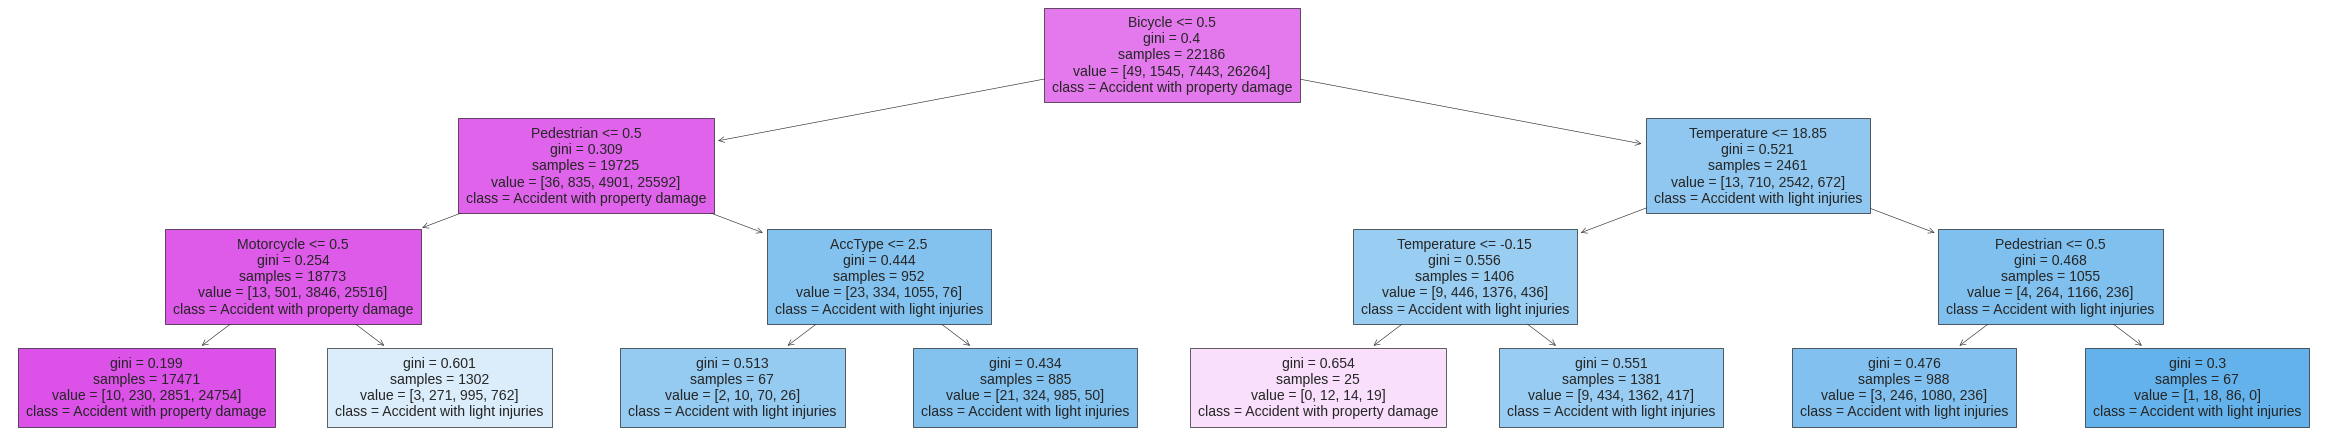
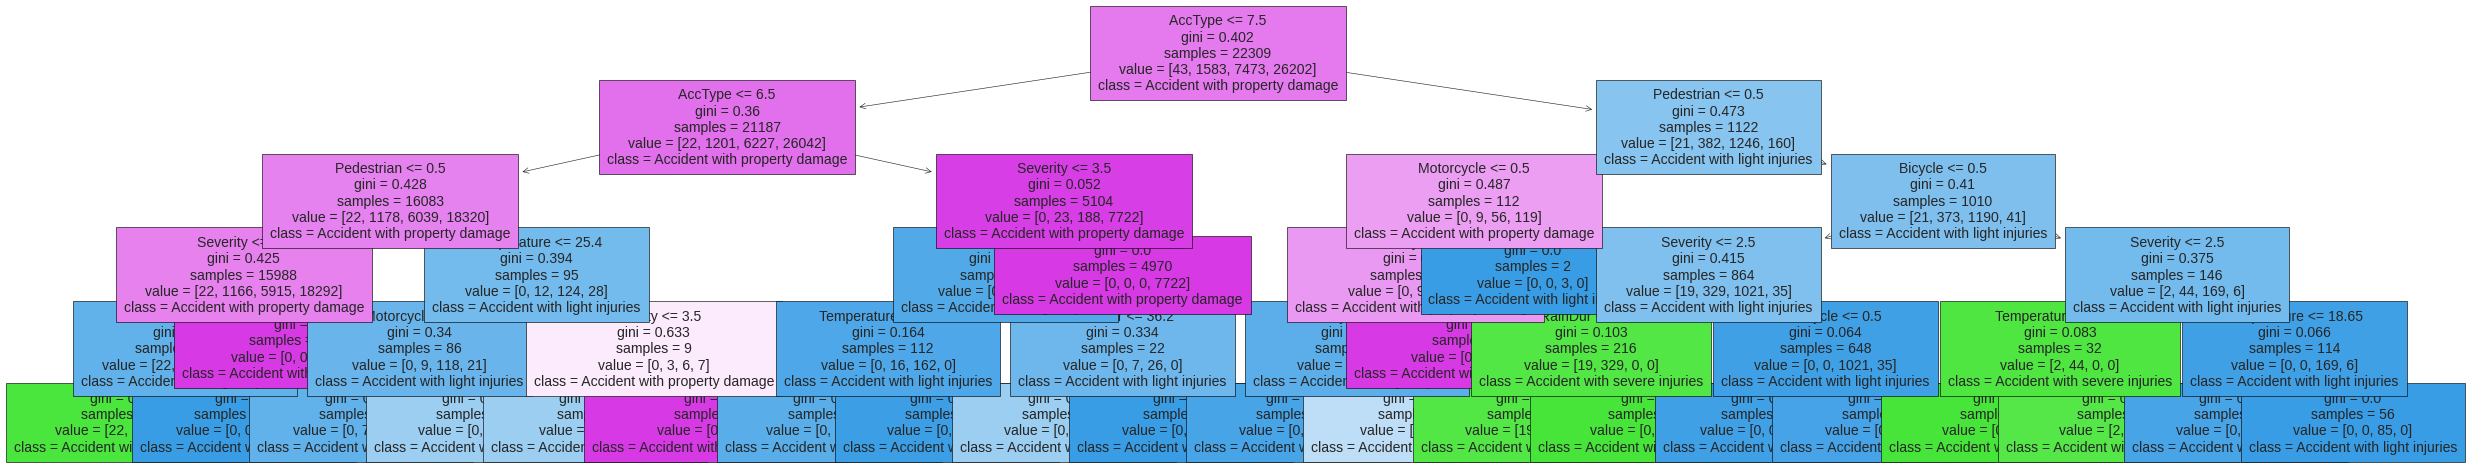
Added save_tree() function to helpers. Beautified classification.py.

diff --git a/src/classification.py b/src/classification.py
@@ -2,63 +2,55 @@
 """
 Created on 13 May 2021
 @author: dtm
-according to this tutorial: https://www.tensorflow.org/tutorials/structured_data/feature_columns
+according to this tutorial: https://www.tensorflow.org/tutorials/structured_data/feature_columns and session_06b
 """
 
-import logging, os
-import matplotlib.pyplot as plt
+import logging
+import os
 logging.disable(logging.WARNING)
-os.environ["TF_CPP_MIN_LOG_LEVEL"] = "2"
+os.environ["TF_CPP_MIN_LOG_LEVEL"] = "2"  # Silence tensorflow a bit
 import tensorflow as tf
 from tensorflow import feature_column
 from tensorflow.keras import layers, optimizers
 from sklearn.model_selection import train_test_split
 from datasets import data_all as dataframe
-from helpers import df_to_dataset
+from helpers import df_to_dataset, prepare_data_classification, save_tree
 
 import pandas as pd
+
 from sklearn.tree import DecisionTreeClassifier
 from sklearn.ensemble import RandomForestClassifier
 from sklearn.metrics import accuracy_score
 from sklearn.metrics import confusion_matrix
-from sklearn.tree import plot_tree
 
 
 # set some pandas option to use the whole terminal width to display results
 pd.options.display.max_columns = 10
 pd.set_option('display.width', 200)
 
-dataframe = dataframe.drop(columns=['Date', 'SumBikerNumber',
-                                    'SumBikerNumber', 'SumCars', 'SumPedestrianNumber'])
-# Shorten feature names just for convenient output format
-new_cols = {"AccidentSeverityCategory": "Severity", "AccidentType": "AccType", "AvgTemperature": "Temperature",
-            "AvgRainDur": "RainDur",
-            "AccidentInvolvingPedestrian": "Pedestrian", "AccidentInvolvingBicycle": "Bicycle",
-            "AccidentInvolvingMotorcycle": "Motorcycle", "AccidentLocation_CHLV95_E": "LocationE",
-            "AccidentLocation_CHLV95_N": "LocationN"}
-dataframe.rename(columns=new_cols, inplace=True)
-dataframe.loc[dataframe['RoadType'] == 9, 'RoadType'] = 5
+dataframe = prepare_data_classification(dataframe)
 
-sequential_model = False
-decision_tree = False
+sequential_model = True
+decision_tree = True
 random_forest = True
 
-
 if sequential_model:
-    print('starting sequential model classification')
+    print('----------starting sequential model classification----------')
     # all features: ['AccType', 'Severity', 'Pedestrian', 'Bicycle', 'Motorcycle', 'RoadType', 'LocationE', 'LocationN', 'Temperature', 'RainDur']
-    features = ['AccType', 'Pedestrian', 'Bicycle', 'Motorcycle', 'RoadType']
-    target = 'Severity'
+    features = ['AccType', 'Severity', 'Pedestrian', 'Bicycle']
+    target = 'RoadType'
+    print('Features: ', features)
+    print('Target: ', target)
     if target == 'Severity':
         dataframe['Severity'] = dataframe['Severity'] - 1
-    df = dataframe[features+[target]].copy()
+    df = dataframe[features + [target]].copy()
     df.rename(columns={target: 'target'}, inplace=True)
 
     # Split into train test and validation
     train, test = train_test_split(df, test_size=0.2)
     train, val = train_test_split(train, test_size=0.2)
 
-    batch_size = 128
+    batch_size = 1024
     train_ds = df_to_dataset(train, batch_size=batch_size)
     val_ds = df_to_dataset(val, shuffle=False, batch_size=batch_size)
     test_ds = df_to_dataset(test, shuffle=False, batch_size=batch_size)
@@ -68,7 +60,6 @@ if sequential_model:
     for header in features:
         feature_columns.append(feature_column.numeric_column(header))
 
-    print(feature_columns)
     # Use DenseFeatures layer as an input to the Keras model
     feature_layer = tf.keras.layers.DenseFeatures(feature_columns)
 
@@ -78,17 +69,16 @@ if sequential_model:
     #     print('A batch of RoadType:', feature_batch['RoadType'])
     #     print('A batch of Bicycle:', feature_batch['Bicycle'])
     #     print('A batch of Motorcycle:', feature_batch['Motorcycle'])
-    #     print('A batch of Temperature:', feature_batch['Temperature'])
     #     print('A batch of targets:', label_batch)
 
+    num_units = dataframe[target].nunique()
+    print(num_units)
     model = tf.keras.Sequential([
         feature_layer,
         layers.Dense(128, activation='relu'),
-        layers.Dense(512, activation='relu'),
-        layers.Dense(256, activation='relu'),
         layers.Dense(128, activation='relu'),
         layers.Dropout(.3),
-        layers.Dense(4, activation='softmax')
+        layers.Dense(num_units, activation='softmax')
     ])
 
     optimizer = optimizers.Adam(learning_rate=0.01)  # Defines the learning rate
@@ -98,97 +88,82 @@ if sequential_model:
     callbacks = [tf.keras.callbacks.EarlyStopping(
         monitor='val_loss', patience=3)]
 
-    history = model.fit(train_ds, validation_data=val_ds, epochs=60, callbacks=None)
+    history = model.fit(train_ds, validation_data=val_ds, epochs=30, callbacks=None)
     loss, accuracy = model.evaluate(test_ds)
-    # print("Accuracy", accuracy)
-    # print(dataframe.info())
-    # pred = model.predict_classes(test_ds)
-    # true = dataframe['target'].values
-    # print(pred)
-    # print(true)
-
 
 if decision_tree:
-    print('starting decision tree classification')
+    print('\n----------starting decision tree classification----------')
     # all features: ['AccType', 'Severity', 'Pedestrian', 'Bicycle', 'Motorcycle', 'RoadType','LocationE', 'LocationN', 'Temperature', 'RainDur']
-    df = dataframe[['AccType', 'Severity', 'Pedestrian', 'Bicycle', 'Motorcycle', 'RoadType', 'Temperature', 'RainDur']]
-    X = df.drop(columns='RoadType')
-    y = df['RoadType']
+    features = ['Severity', 'AccType', 'Pedestrian', 'Bicycle', 'Motorcycle', 'Temperature', 'RainDur']
+    # TODO: Adapt class_names for different target values
+    class_names = ['Accident with fatalities', 'Accident with severe injuries',
+                   'Accident with light injuries', 'Accident with property damage']
+    target = 'RoadType'
+    X = dataframe[features]
+    y = dataframe[target]
+    print('Features: ', features)
+    print('Target: ', target)
 
     X_train, X_test, y_train, y_test = train_test_split(X, y, random_state=1)
 
-    dtc = DecisionTreeClassifier()
+    dtc = DecisionTreeClassifier(random_state=1)
     dtc.fit(X_train, y_train)
 
     dtc_y_predict = dtc.predict(X_test)
-    accuracy_score(y_test, dtc_y_predict)
+    print('Accuracy: ', accuracy_score(y_test, dtc_y_predict))
 
-    confusion = pd.DataFrame(
-        confusion_matrix(y_test, dtc_y_predict),
-        columns=['Predicted Motorway', 'Predicted Expressway', 'Predicted Principal road','Predicted Minor road',
-                 'Predicted Motorway side installation', 'Predicted Other'],
-        index=['True Motorway', 'True Expressway', 'True Principal road', 'True Minor road',
-               'True Motorway side installation', 'True Other']
-    )
-    pd.options.display.max_columns = 10
-    pd.set_option('display.width', 200)
-    print(confusion)
-
+    # confusion = pd.DataFrame(
+    #     confusion_matrix(y_test, dtc_y_predict),
+    #     columns=class_names,
+    #     index=['True ' + i for i in class_names]
+    # )
+    # print(confusion)
     fi_dtc = pd.DataFrame(dtc.feature_importances_,
                           index=list(X.columns),
                           columns=['importance'])
     fi_dtc_sorted = fi_dtc.sort_values('importance', ascending=False)
     print(fi_dtc_sorted)
 
-
 if random_forest:
-    print('starting random forest classification')
+    print('\n----------starting random forest classification----------')
     # all features: ['AccType', 'Severity', 'Pedestrian', 'Bicycle', 'Motorcycle', 'RoadType','LocationE', 'LocationN', 'Temperature', 'RainDur']
-    features = ['AccType', 'RoadType', 'Pedestrian', 'Bicycle', 'Motorcycle', 'Temperature', 'RainDur']
-    # class_names = ['Motorway', 'Expressway', 'Principal road', 'Minor road', 'Motorway side installation', 'Other']
+    features = ['Severity', 'AccType', 'Pedestrian', 'Bicycle', 'Motorcycle', 'Temperature', 'RainDur']
+    # TODO: Adapt class_names for different target values
     class_names = ['Accident with fatalities', 'Accident with severe injuries',
                    'Accident with light injuries', 'Accident with property damage']
+    target = 'RoadType'
     X = dataframe[features]
     y = dataframe['Severity']
+    print('Features: ', features)
+    print('Target: ', target)
 
     X_train, X_test, y_train, y_test = train_test_split(X, y, random_state=1)
 
-    rfc = RandomForestClassifier(random_state=1, max_depth=3)
+    rfc = RandomForestClassifier(random_state=1, max_depth=5)
+    # rfc = RandomForestClassifier(bootstrap=True, ccp_alpha=0.0,
+    #                              max_depth=None, max_features='auto', max_leaf_nodes=None,
+    #                              max_samples=None, min_impurity_decrease=0.0,
+    #                              min_impurity_split=None, min_samples_leaf=1,
+    #                              min_samples_split=2, min_weight_fraction_leaf=0.0,
+    #                              n_estimators=100, n_jobs=None, oob_score=False,
+    #                              random_state=1, verbose=0, warm_start=False)
     rfc.fit(X_train, y_train)
-    RandomForestClassifier(bootstrap=True, ccp_alpha=0.0, criterion='mse',
-                          max_depth=3, max_features='auto', max_leaf_nodes=None,
-                          max_samples=None, min_impurity_decrease=0.0,
-                          min_impurity_split=None, min_samples_leaf=1,
-                          min_samples_split=2, min_weight_fraction_leaf=0.0,
-                          n_estimators=100, n_jobs=None, oob_score=False,
-                          random_state=None, verbose=0, warm_start=False)
-    estimator = rfc.estimators_[0]
+    est = rfc.estimators_[3]
+    save_tree(est, features, class_names)
 
-    from subprocess import call
-
-    fig = plt.figure(figsize=(21, 4), dpi=144)
-    plt.style.use('seaborn')
-    plot_tree(estimator, fontsize=7, feature_names=features, class_names=class_names, filled=True)
-    plt.gca().set_axis_off()
-    plt.margins(0, 0)
-    plt.gca().xaxis.set_major_locator(plt.NullLocator())
-    plt.gca().yaxis.set_major_locator(plt.NullLocator())
-    plt.savefig("../presentation/figures/forest_tree.png", bbox_inches='tight',
-                pad_inches=0)
 
     rfc_y_predict = rfc.predict(X_test)
-    print(accuracy_score(y_test, rfc_y_predict))
+    print('Accuracy: ', accuracy_score(y_test, rfc_y_predict))
 
-    confusion = pd.DataFrame(
-        confusion_matrix(y_test, rfc_y_predict),
-        columns=class_names,
-        index=['True ' + i for i in class_names]
-    )
-
+    # confusion = pd.DataFrame(
+    #     confusion_matrix(y_test, rfc_y_predict),
+    #     columns=class_names,
+    #     index=['True ' + i for i in class_names]
+    # )
+    # print(confusion)
     fi_rfc = pd.DataFrame(rfc.feature_importances_,
                           index=list(X.columns),
                           columns=['importance'])
     fi_rfc_sorted = fi_rfc.sort_values('importance', ascending=False)
 
     print(fi_rfc_sorted)
-    print(confusion)

diff --git a/src/helpers.py b/src/helpers.py
@@ -2,6 +2,8 @@ import numpy as np
 import tensorflow as tf
 from matplotlib.colors import LinearSegmentedColormap
 import matplotlib.pyplot as plt
+from sklearn.tree import plot_tree
+
 
 
 def lv95_latlong(E, N):
@@ -86,3 +88,35 @@ def ccolormap(name='Blues_custom'):
     # h = ax.imshow(np.random.rand(100, 100), cmap='Blues_custom')
     # plt.colorbar(mappable=h)
     # plt.show()
+
+
+def prepare_data_classification(dataframe):
+    """
+    Prepares the dataframe for classification tasks. Just making column names shorter.
+    :param dataframe: The Accident data_all dataset
+    :return: The edited dataframe
+    """
+    dataframe = dataframe.drop(columns=['Date', 'SumBikerNumber',
+                                        'SumBikerNumber', 'SumCars', 'SumPedestrianNumber'])
+    # Shorten feature names just for convenient output format
+    new_cols = {"AccidentSeverityCategory": "Severity", "AccidentType": "AccType", "AvgTemperature": "Temperature",
+                "AvgRainDur": "RainDur",
+                "AccidentInvolvingPedestrian": "Pedestrian", "AccidentInvolvingBicycle": "Bicycle",
+                "AccidentInvolvingMotorcycle": "Motorcycle", "AccidentLocation_CHLV95_E": "LocationE",
+                "AccidentLocation_CHLV95_N": "LocationN"}
+    dataframe.rename(columns=new_cols, inplace=True)
+    dataframe.loc[dataframe['RoadType'] == 9, 'RoadType'] = 5
+
+    return dataframe
+
+def save_tree(estimator, features, class_names):
+    """
+    Saves the random forest tree from classification
+    :param estimator: estimator
+    :param features: list of feature names
+    :param class_names: list of class names
+    """
+    fig = plt.figure(figsize=(21, 4), dpi=144)
+    plt.style.use('seaborn')
+    plot_tree(estimator, fontsize=7, feature_names=features, class_names=class_names, filled=True)
+    plt.savefig("../presentation/figures/forest_tree.png", bbox_inches='tight', pad_inches=0.1)
